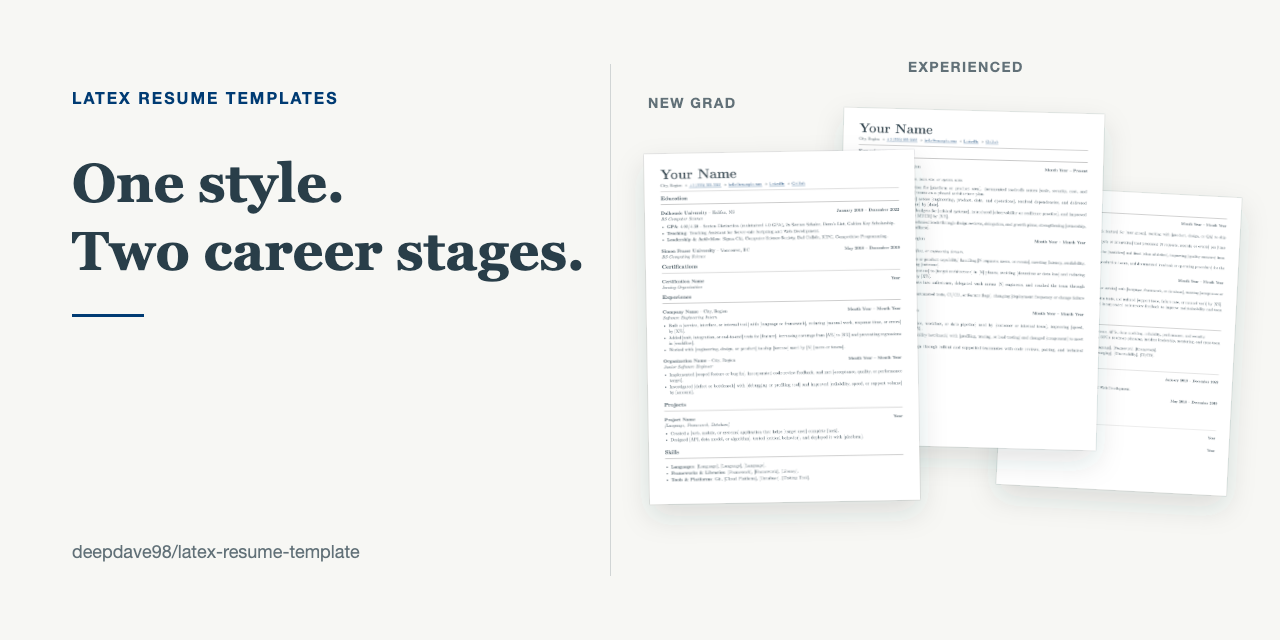
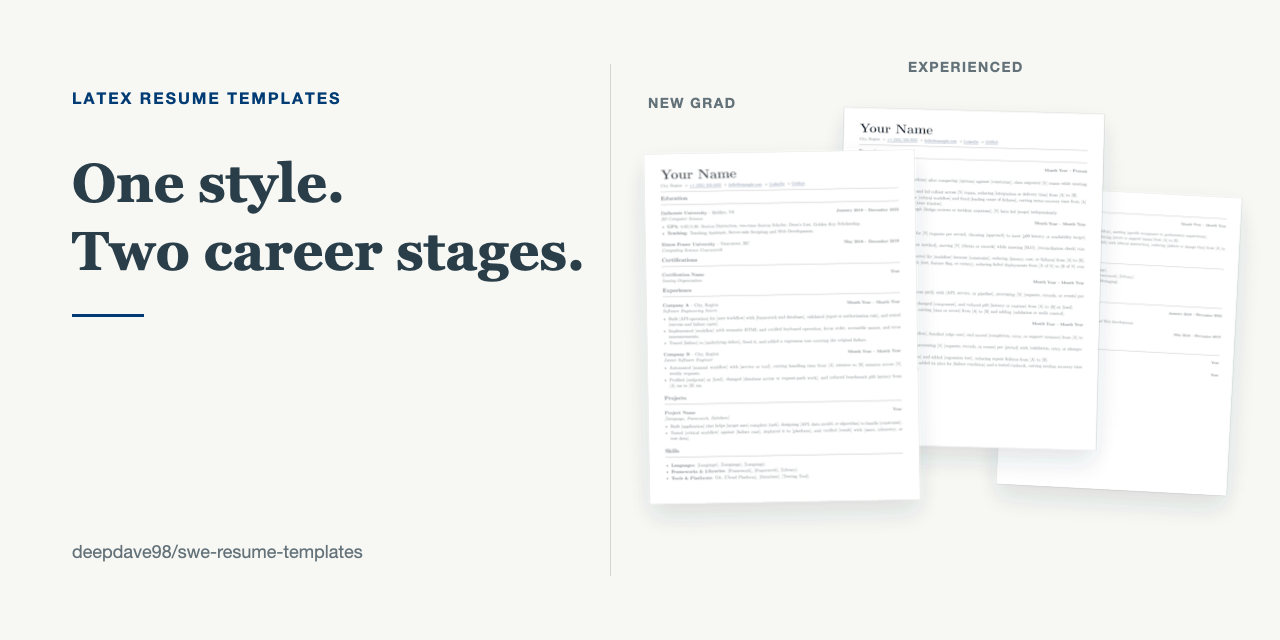
Update repository links

diff --git a/README.md b/README.md
@@ -1,6 +1,6 @@
 # LaTeX Software Engineering Resume Templates
 
-[![Build resumes](https://github.com/deepdave98/latex-resume-template/actions/workflows/build.yml/badge.svg)](https://github.com/deepdave98/latex-resume-template/actions/workflows/build.yml)
+[![Build resumes](https://github.com/deepdave98/swe-resume-templates/actions/workflows/build.yml/badge.svg)](https://github.com/deepdave98/swe-resume-templates/actions/workflows/build.yml)
 [![License: MIT](https://img.shields.io/badge/License-MIT-29627e.svg)](LICENSE)
 
 I made this to help software engineers spend less time on layout and more time showing their work. Choose a one-page new-grad template or a two-page experienced template; both use the same style.
@@ -16,8 +16,8 @@ The example bullets reflect what I have looked for while hiring engineers: clear
 
 ### Open in Overleaf
 
-[![Open the New Grad resume in Overleaf](https://img.shields.io/badge/New_Grad-Open_in_Overleaf-47A141?logo=overleaf&logoColor=white)](https://www.overleaf.com/docs?snip_uri=https%3A%2F%2Fgithub.com%2Fdeepdave98%2Flatex-resume-template%2Freleases%2Fdownload%2Fv1.0.0%2Fnew-grad-resume.zip&engine=xelatex&main_document=resume.tex)
-[![Open the Experienced resume in Overleaf](https://img.shields.io/badge/Experienced-Open_in_Overleaf-47A141?logo=overleaf&logoColor=white)](https://www.overleaf.com/docs?snip_uri=https%3A%2F%2Fgithub.com%2Fdeepdave98%2Flatex-resume-template%2Freleases%2Fdownload%2Fv1.0.0%2Fexperienced-resume.zip&engine=xelatex&main_document=resume.tex)
+[![Open the New Grad resume in Overleaf](https://img.shields.io/badge/New_Grad-Open_in_Overleaf-47A141?logo=overleaf&logoColor=white)](https://www.overleaf.com/docs?snip_uri=https%3A%2F%2Fgithub.com%2Fdeepdave98%2Fswe-resume-templates%2Freleases%2Fdownload%2Fv1.0.0%2Fnew-grad-resume.zip&engine=xelatex&main_document=resume.tex)
+[![Open the Experienced resume in Overleaf](https://img.shields.io/badge/Experienced-Open_in_Overleaf-47A141?logo=overleaf&logoColor=white)](https://www.overleaf.com/docs?snip_uri=https%3A%2F%2Fgithub.com%2Fdeepdave98%2Fswe-resume-templates%2Freleases%2Fdownload%2Fv1.0.0%2Fexperienced-resume.zip&engine=xelatex&main_document=resume.tex)
 
 Both buttons open standalone XeLaTeX projects.
 
@@ -39,8 +39,8 @@ Both buttons open standalone XeLaTeX projects.
 Click **Use this template** at the top of the repository, or clone it. On macOS or Linux:
 
 ```bash
-git clone https://github.com/deepdave98/latex-resume-template.git
-cd latex-resume-template
+git clone https://github.com/deepdave98/swe-resume-templates.git
+cd swe-resume-templates
 make
 ```
 
@@ -116,7 +116,7 @@ Check the source for comments and placeholder contacts, links, employers, and me
 
 CI compiles both templates and enforces the one-page and two-page layouts.
 
-If this helped, star the repo. Contributions are welcome; read [CONTRIBUTING.md](CONTRIBUTING.md), and report vulnerabilities [privately](https://github.com/deepdave98/latex-resume-template/security/advisories/new).
+If this helped, star the repo. Contributions are welcome; read [CONTRIBUTING.md](CONTRIBUTING.md), and report vulnerabilities [privately](https://github.com/deepdave98/swe-resume-templates/security/advisories/new).
 
 ## License
 

diff --git a/.github/SECURITY.md b/.github/SECURITY.md
@@ -4,6 +4,6 @@ Security fixes apply to the latest release and the `main` branch.
 
 ## Reporting a vulnerability
 
-Please use [GitHub's private vulnerability reporting](https://github.com/deepdave98/latex-resume-template/security/advisories/new) instead of opening a public issue.
+Please use [GitHub's private vulnerability reporting](https://github.com/deepdave98/swe-resume-templates/security/advisories/new) instead of opening a public issue.
 
 Include the affected file or release, reproduction steps, and potential impact. I'll respond as soon as I can.
